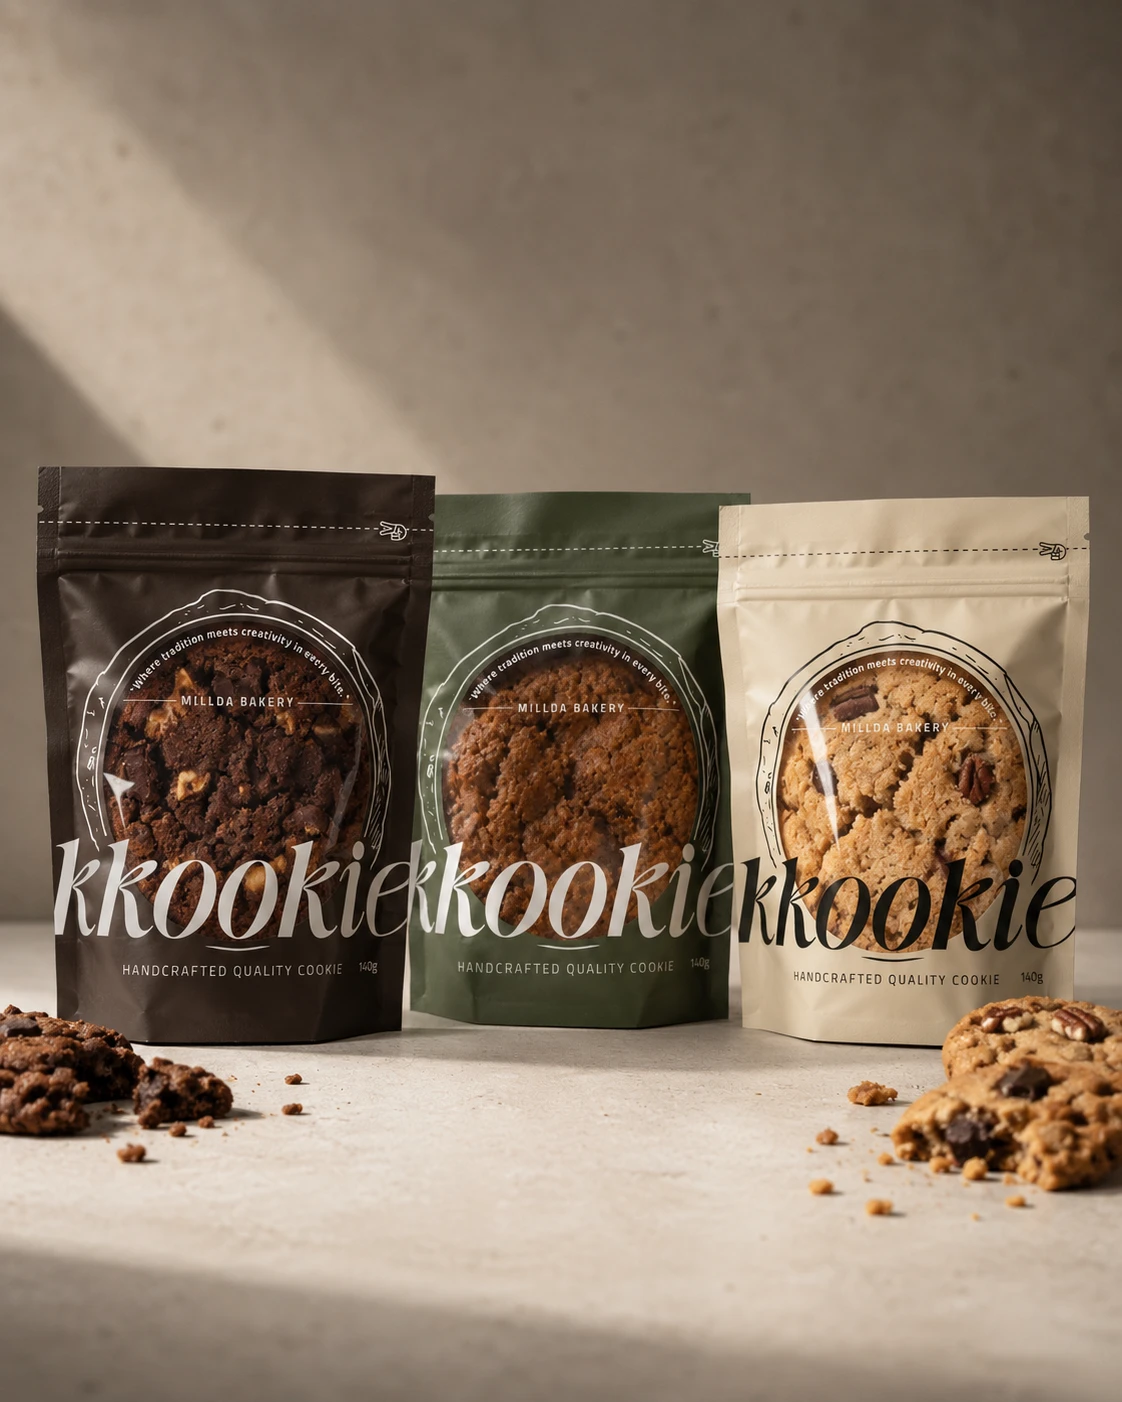
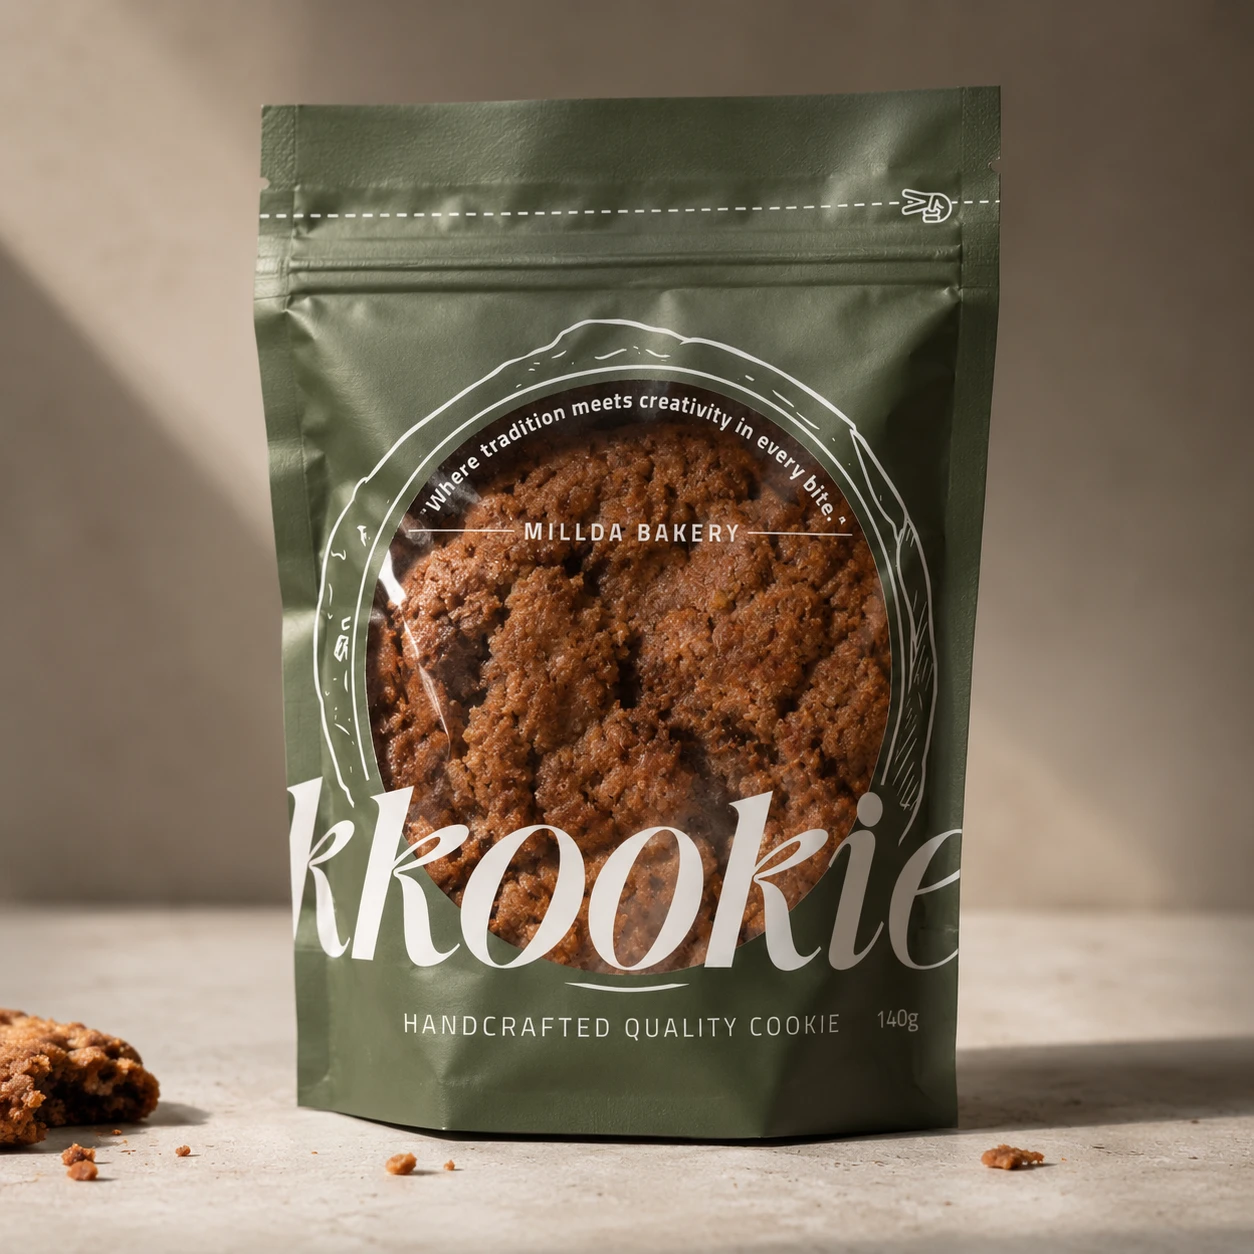
Replace kkookie images with 5-image set including cake box dielines
Claude-Session: https://claude.ai/code/session_01EMUN7kgNmVskRvqo7GRgev

diff --git a/data/projects.js b/data/projects.js
@@ -91,9 +91,11 @@ window.PORTFOLIO_PROJECTS = [
     year: "2025",
     preview: "images/kkookie/kkookie1.jpg",
     media: [
-      { type: "image", src: "images/kkookie/kkookie1.jpg", alt: "kkookie sage green stand-up pouch packaging — single bag hero shot with circular window revealing handcrafted cookie" },
-      { type: "image", src: "images/kkookie/kkookie2.jpg", alt: "kkookie full packaging range — dark chocolate, sage green, and natural cream colourways side by side" },
-      { type: "image", src: "images/kkookie/kkookie3.jpg", alt: "kkookie packaging dieline — six colourway variations across front and back panels showing full label system" }
+      { type: "image", src: "images/kkookie/kkookie1.jpg", alt: "kkookie packaging dieline — six colourway variations across front and back panels showing full label system" },
+      { type: "image", src: "images/kkookie/kkookie2.jpg", alt: "kkookie sage green stand-up pouch packaging — single bag hero shot with circular window revealing handcrafted cookie" },
+      { type: "image", src: "images/kkookie/kkookie3.png", alt: "kkookie Millda Bakery cake box dielines — white chocolate matcha, red velvet, and ultimate chocolate cake in dark colourways" },
+      { type: "image", src: "images/kkookie/kkookie4.png", alt: "kkookie Millda Bakery cake box dielines — ultimate chocolate, red velvet, and white chocolate matcha cake in light colourways with bilingual French labelling" },
+      { type: "image", src: "images/kkookie/kkookie5.jpg", alt: "kkookie full cookie packaging range — dark chocolate, sage green, and natural cream colourways side by side" }
     ],
     description: [
       { label: "Brief", text: "kkookie is an in-house bakery brand developed as a strategic extension of Millda Bakery's product portfolio. The brief required a distinct brand identity that could occupy the premium cookie market without cannibalising the parent brand's positioning — tonally different enough to feel like a standalone label, yet coherent within the same production and distribution context. The target market was design-literate gift buyers and specialty food retailers seeking artisan cookie products with shelf presence." },